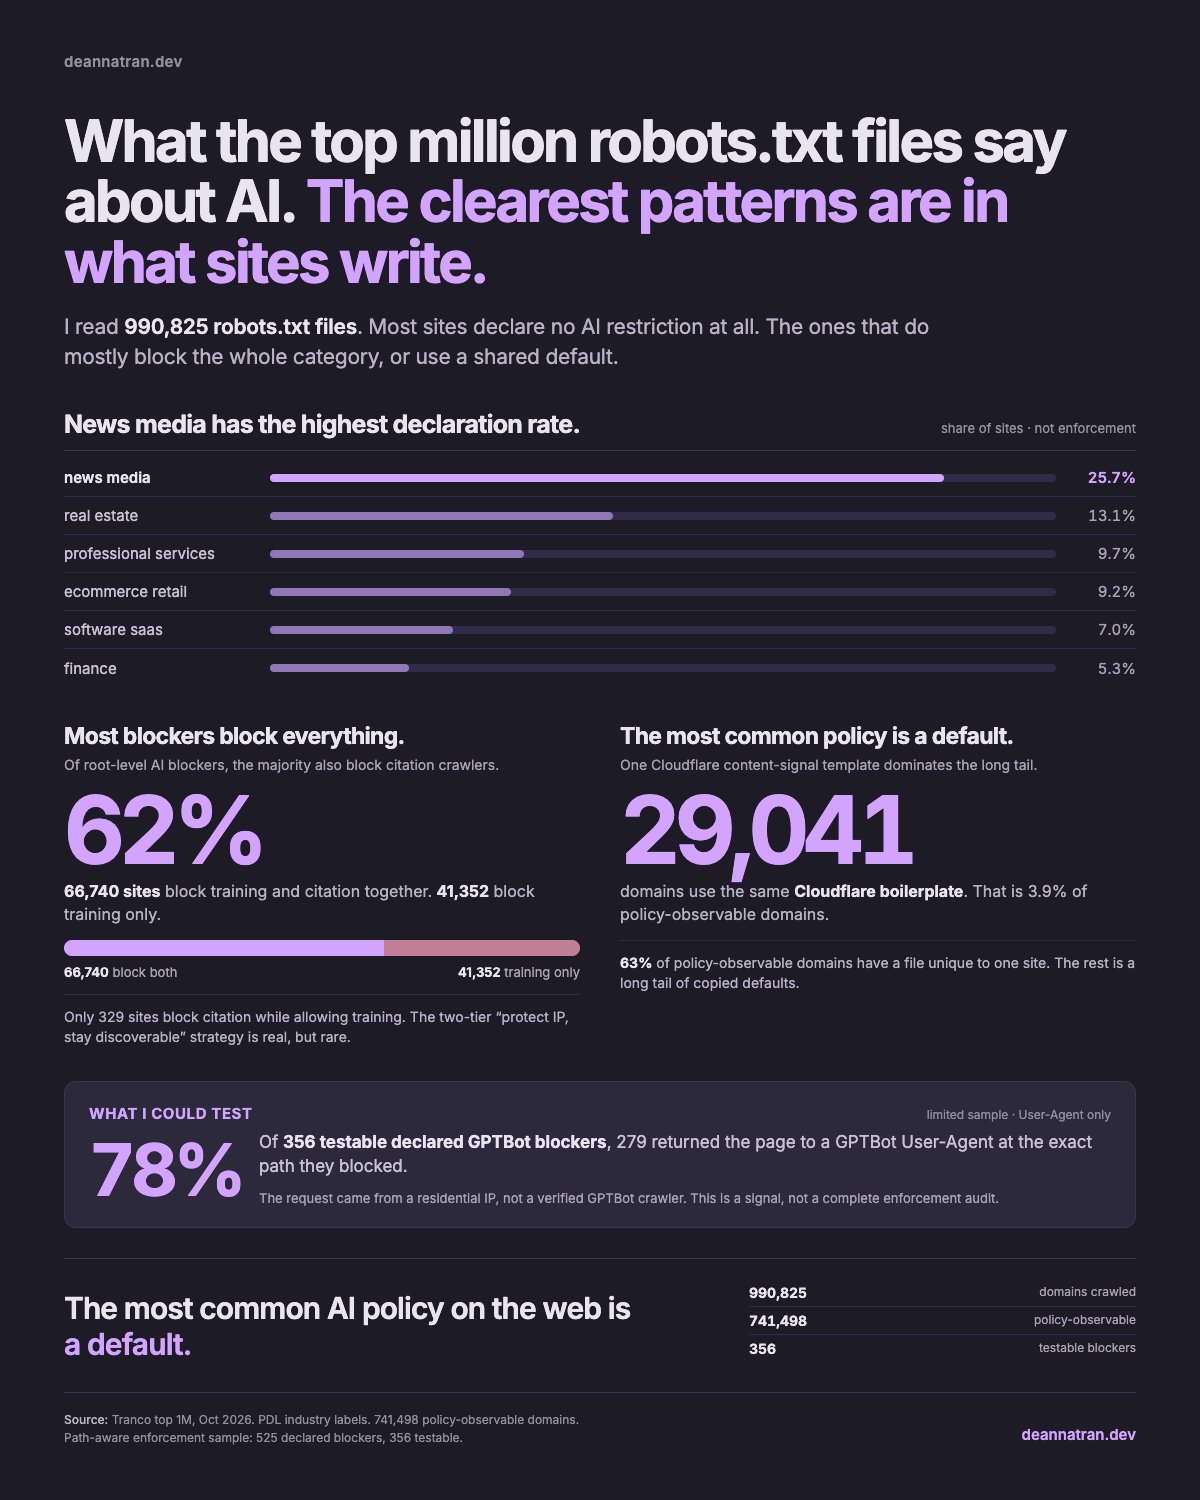
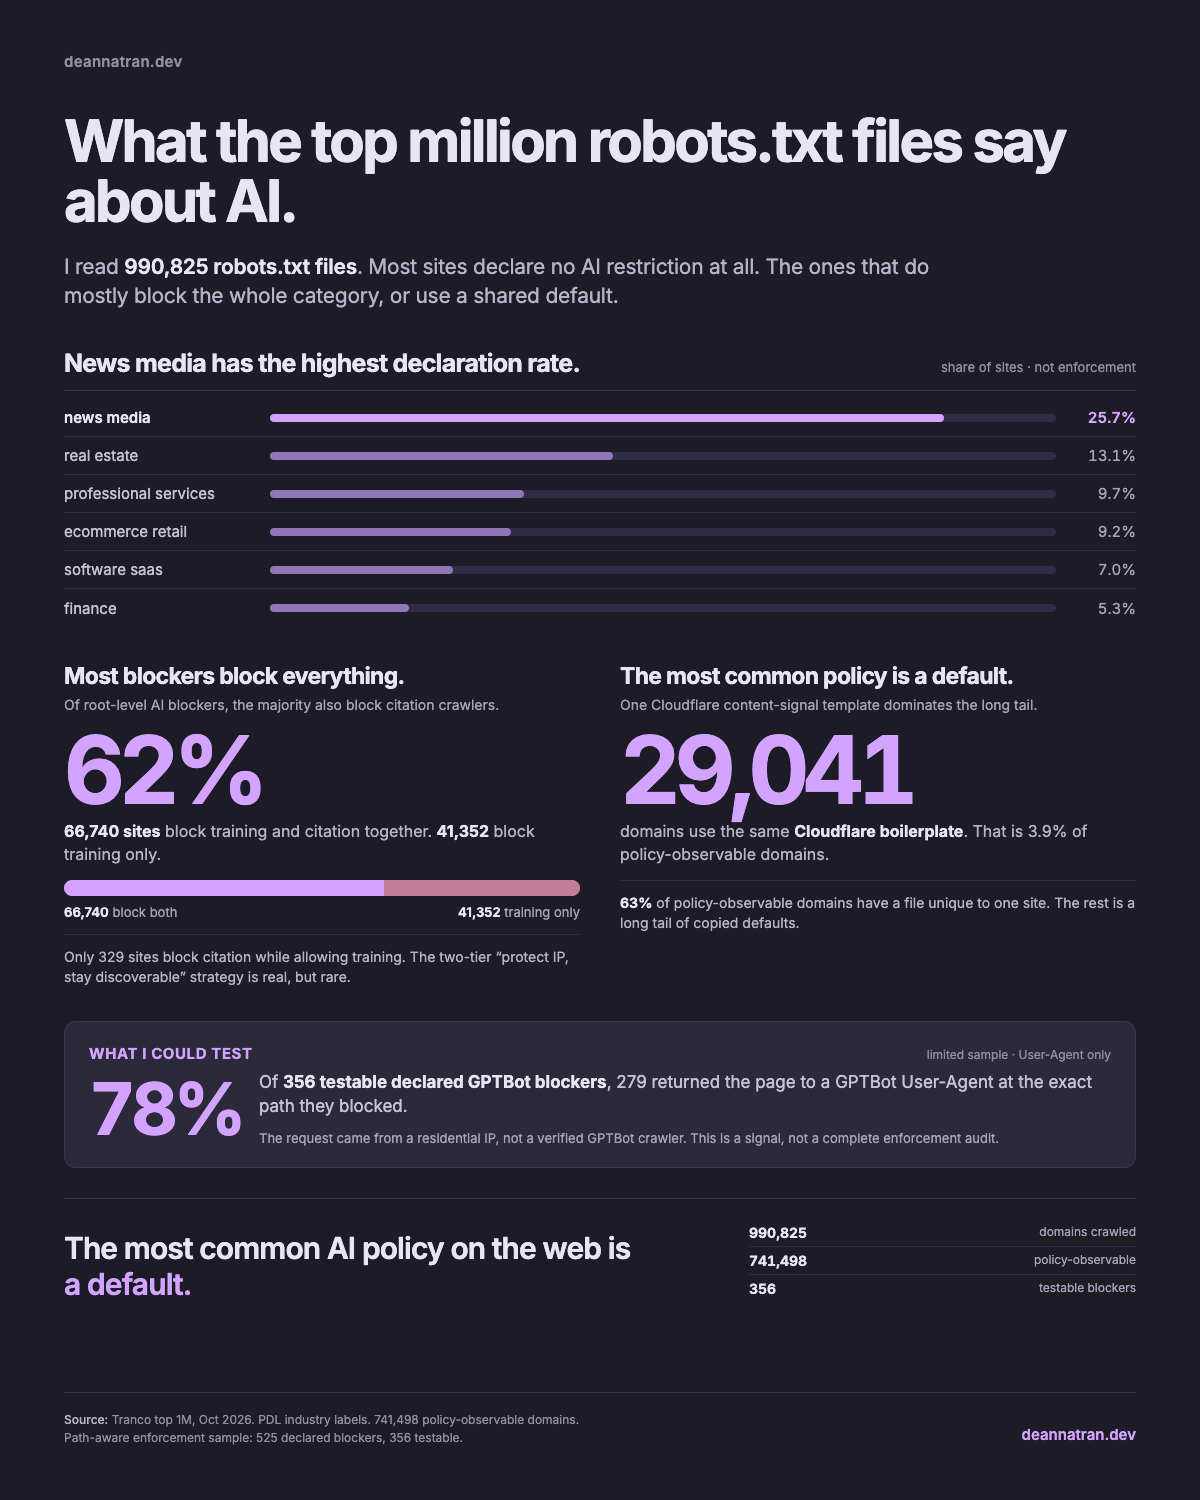
Simplify infographic headline

diff --git a/marketing/linkedin/robots-ai-og.html b/marketing/linkedin/robots-ai-og.html
@@ -80,7 +80,7 @@
   <main class="card">
     <section class="left">
       <div class="brand">deannatran.dev</div>
-      <h1>What the top million robots.txt files say about AI. <span>The clearest patterns are in what sites write.</span></h1>
+      <h1>What the top million robots.txt files say about AI.</h1>
       <p class="dek">I read <strong>990,825 robots.txt files</strong>. Most sites declare no AI restriction at all. The ones that do mostly block the whole category, or use a default.</p>
     </section>
     <section class="right">

diff --git a/marketing/linkedin/robots-ai-card-dark.html b/marketing/linkedin/robots-ai-card-dark.html
@@ -264,7 +264,7 @@
   <main class="card">
     <div class="top"><span>deannatran.dev</span></div>
 
-    <h1>What the top million robots.txt files say about AI. <span>The clearest patterns are in what sites write.</span></h1>
+    <h1>What the top million robots.txt files say about AI.</h1>
 
     <p class="dek">I read <strong>990,825 robots.txt files</strong>. Most sites declare no AI restriction at all. The ones that do mostly block the whole category, or use a shared default.</p>
 

diff --git a/marketing/linkedin/robots-ai-card.html b/marketing/linkedin/robots-ai-card.html
@@ -264,7 +264,7 @@
   <main class="card">
     <div class="top"><span>deannatran.dev</span></div>
 
-    <h1>What the top million robots.txt files say about AI. <span>The clearest patterns are in what sites write.</span></h1>
+    <h1>What the top million robots.txt files say about AI.</h1>
 
     <p class="dek">I read <strong>990,825 robots.txt files</strong>. Most sites declare no AI restriction at all. The ones that do mostly block the whole category, or use a shared default.</p>
 
